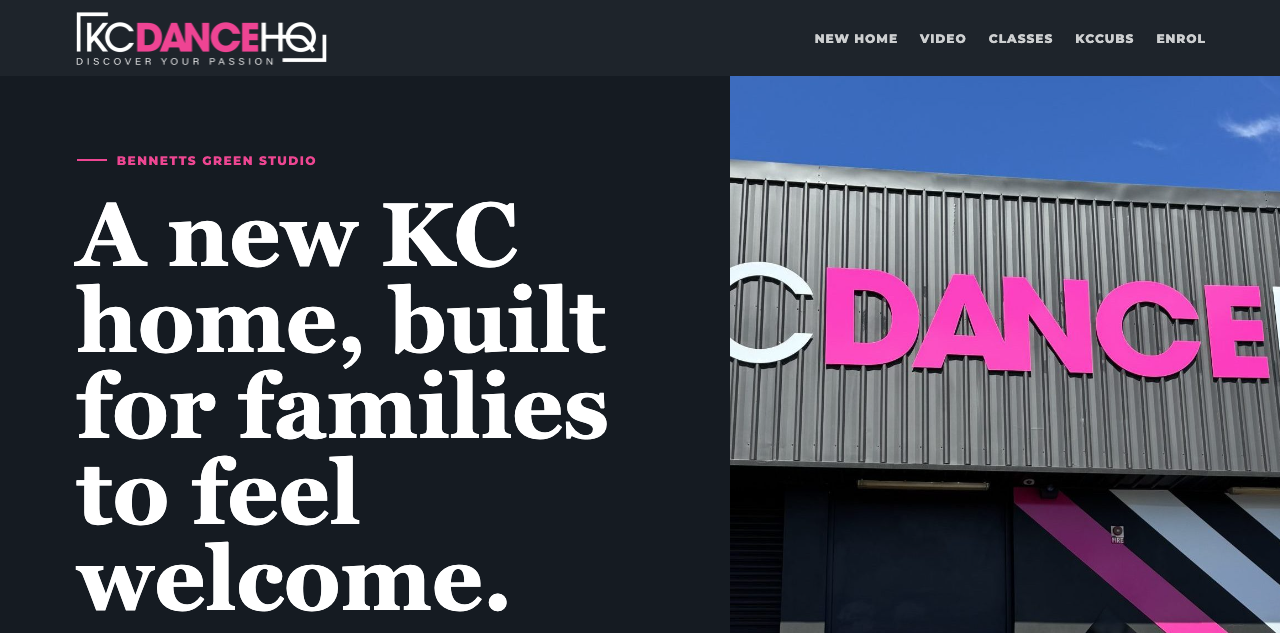
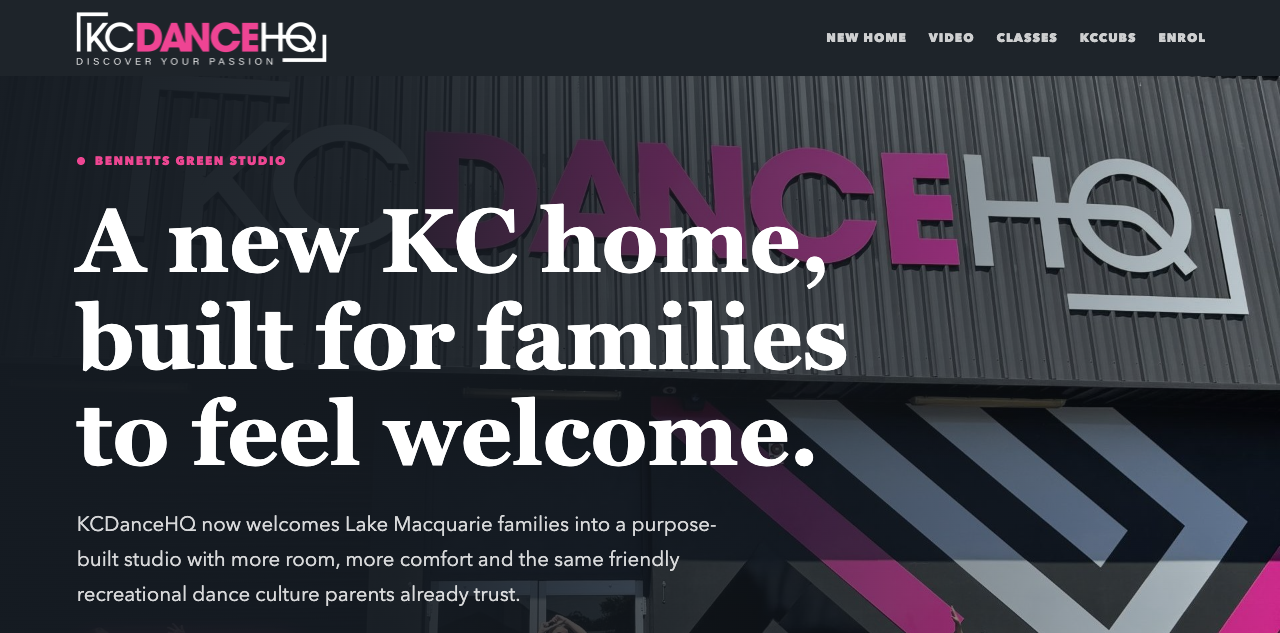
Polish KCDanceHQ demo 3 hero

diff --git a/studios/kc-dance-hq/demos/demo-3-new-home-showcase/index.html b/studios/kc-dance-hq/demos/demo-3-new-home-showcase/index.html
@@ -8,11 +8,14 @@
     <link rel="icon" href="../../assets/favicon.png">
     <link rel="stylesheet" href="../../assets/kc-redesign.css">
     <style>
-      body.demo-new-home .hero { background: var(--ink); }
-      body.demo-new-home .hero-layout { display: grid; grid-template-columns: minmax(0, 1.14fr) minmax(390px, 0.86fr); min-height: calc(100vh - 76px); }
-      body.demo-new-home .hero-copy { align-content: center; display: grid; padding: clamp(34px, 6vw, 84px); }
-      body.demo-new-home .hero h1 { font-size: clamp(3rem, 7vw, 6rem); }
-      body.demo-new-home .hero-venue img { min-height: calc(100vh - 76px); object-fit: cover; object-position: center top; }
+      body.demo-new-home .hero { background: var(--ink); min-height: calc(100vh - 76px); }
+      body.demo-new-home .hero-layout { align-items: center; display: grid; isolation: isolate; min-height: calc(100vh - 76px); position: relative; }
+      body.demo-new-home .hero-layout::before { background: linear-gradient(90deg, rgba(21,27,34,0.98) 0%, rgba(21,27,34,0.92) 31%, rgba(21,27,34,0.64) 58%, rgba(21,27,34,0.2) 100%); content: ""; inset: 0; position: absolute; z-index: 1; }
+      body.demo-new-home .hero-copy { align-content: center; display: grid; min-height: calc(100vh - 76px); padding: clamp(34px, 6vw, 84px); position: relative; z-index: 2; }
+      body.demo-new-home .hero h1 { font-size: clamp(3rem, 7vw, 6rem); max-width: 840px; }
+      body.demo-new-home .hero p { max-width: 660px; }
+      body.demo-new-home .hero-venue { inset: 0; position: absolute; z-index: 0; }
+      body.demo-new-home .hero-venue img { height: 100%; min-height: calc(100vh - 76px); object-fit: cover; object-position: center center; width: 100%; }
       body.demo-new-home .home-strip { background: var(--pink); color: var(--white); padding: 22px 0; }
       body.demo-new-home .home-strip .stats { grid-template-columns: repeat(4, minmax(0, 1fr)); }
       body.demo-new-home .facility-map { background: var(--white); }
@@ -23,11 +26,13 @@
       body.demo-new-home .cta-zone { background: var(--ink); color: var(--white); }
       body.demo-new-home .cta-zone p { color: rgba(255,255,255,0.78); }
       @media (max-width: 980px) {
-        body.demo-new-home .hero-layout,
         body.demo-new-home .room-grid,
         body.demo-new-home .home-strip .stats { grid-template-columns: minmax(0, 1fr); }
-        body.demo-new-home .hero-copy { order: 2; }
-        body.demo-new-home .hero-venue img { min-height: 360px; }
+        body.demo-new-home .hero,
+        body.demo-new-home .hero-layout,
+        body.demo-new-home .hero-copy,
+        body.demo-new-home .hero-venue img { min-height: 680px; }
+        body.demo-new-home .hero-layout::before { background: linear-gradient(180deg, rgba(21,27,34,0.92) 0%, rgba(21,27,34,0.82) 52%, rgba(21,27,34,0.46) 100%); }
       }
     </style>
   </head>
@@ -51,6 +56,9 @@
     <main id="top">
       <section class="hero" aria-label="KCDanceHQ Bennetts Green studio">
         <div class="hero-layout">
+          <div class="hero-venue">
+            <img src="../../assets/venue-studio-floor.jpeg" alt="KCDanceHQ Bennetts Green facade with dancers outside the venue">
+          </div>
           <div class="hero-copy">
             <div class="hero-content reveal">
               <span class="kicker">Bennetts Green studio</span>
@@ -61,9 +69,6 @@
                 <a class="btn btn-line-light" href="#new-home">Explore the studio</a>
               </div>
             </div>
-          </div>
-          <div class="hero-venue">
-            <img src="../../assets/venue-studio-floor.jpeg" alt="KCDanceHQ Bennetts Green facade with dancers outside the venue">
           </div>
         </div>
       </section>